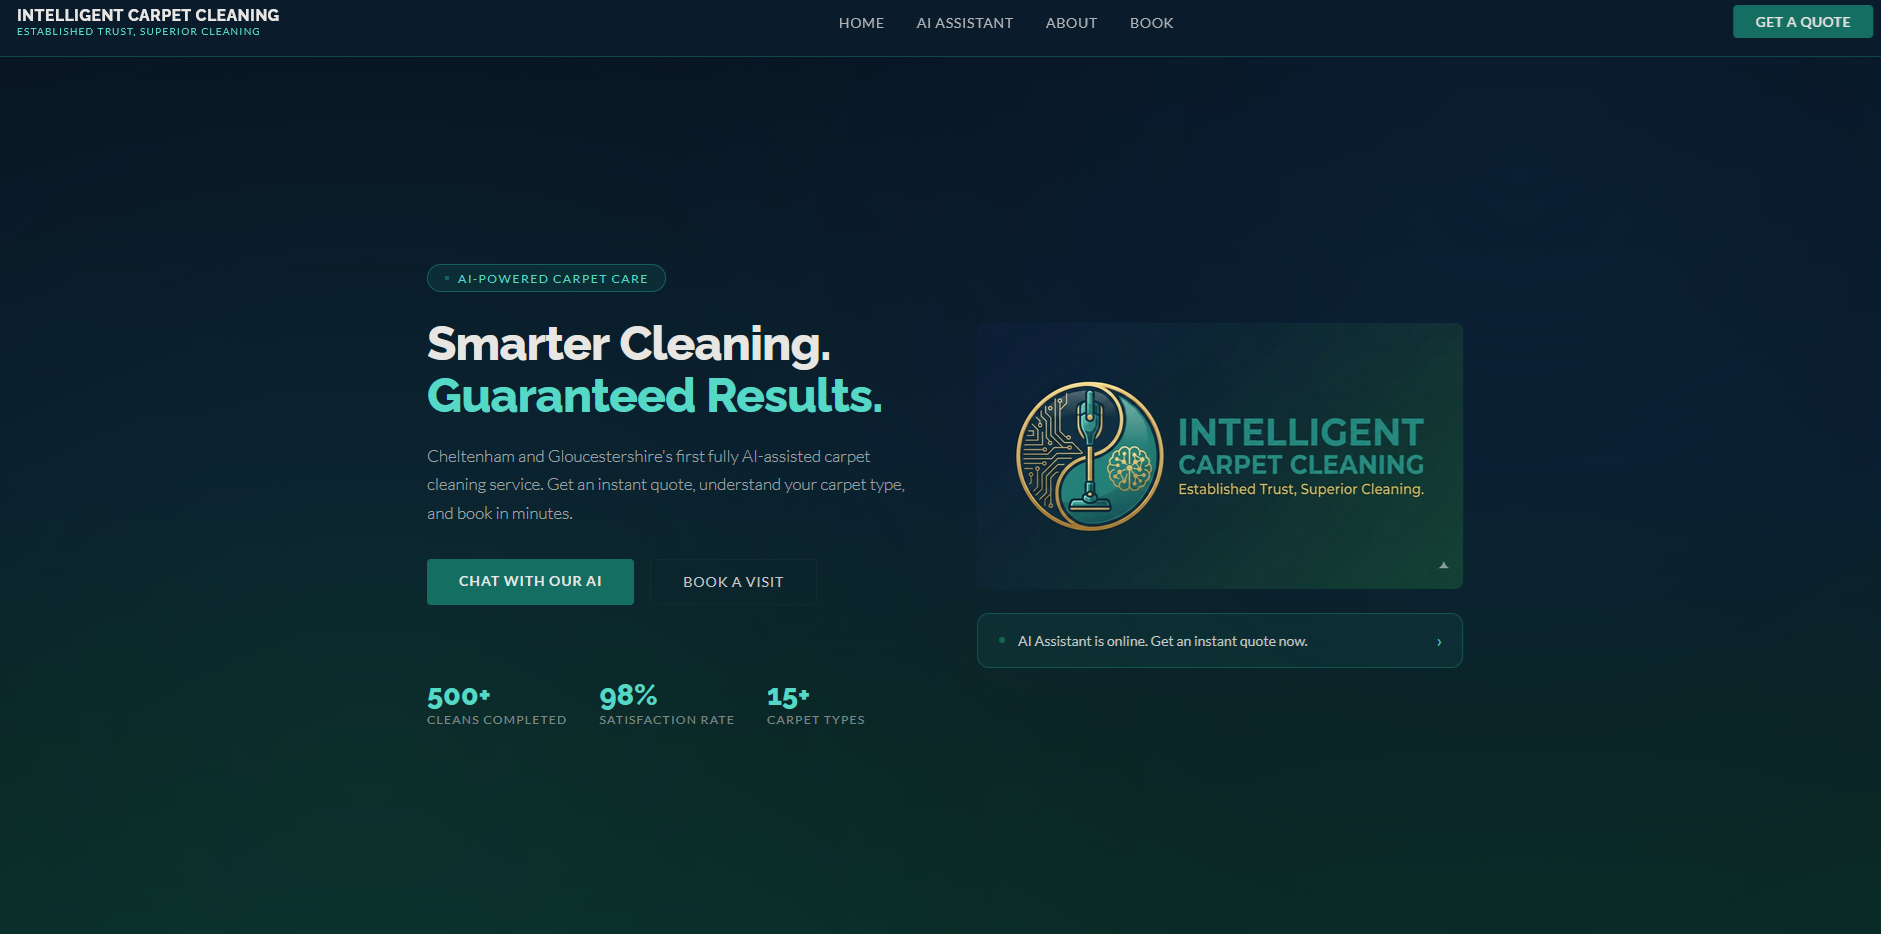
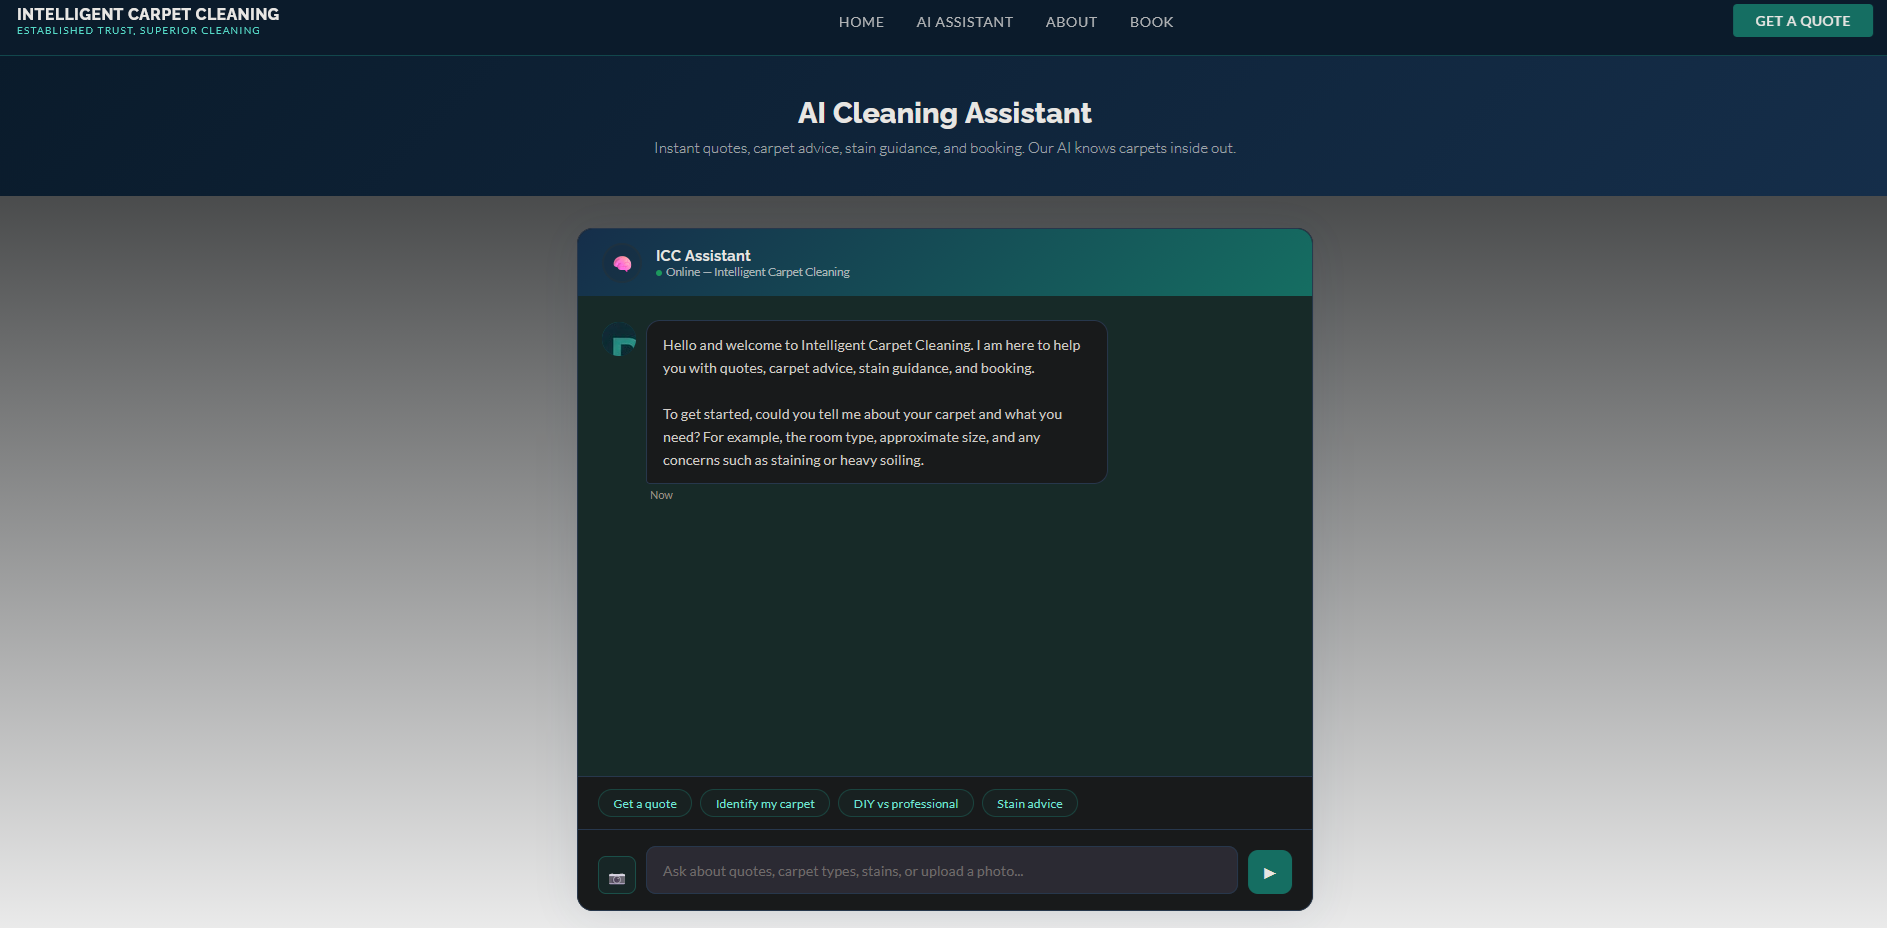
Fix screenshot crop - object-fit cover

diff --git a/css/style.css b/css/style.css
@@ -557,6 +557,9 @@ a:hover {
 
 .screenshot-img {
   width: 100%;
+  height: 280px;
+  object-fit: cover;
+  object-position: top;
   border-radius: var(--radius-md);
   border: 1px solid var(--color-border);
   display: block;